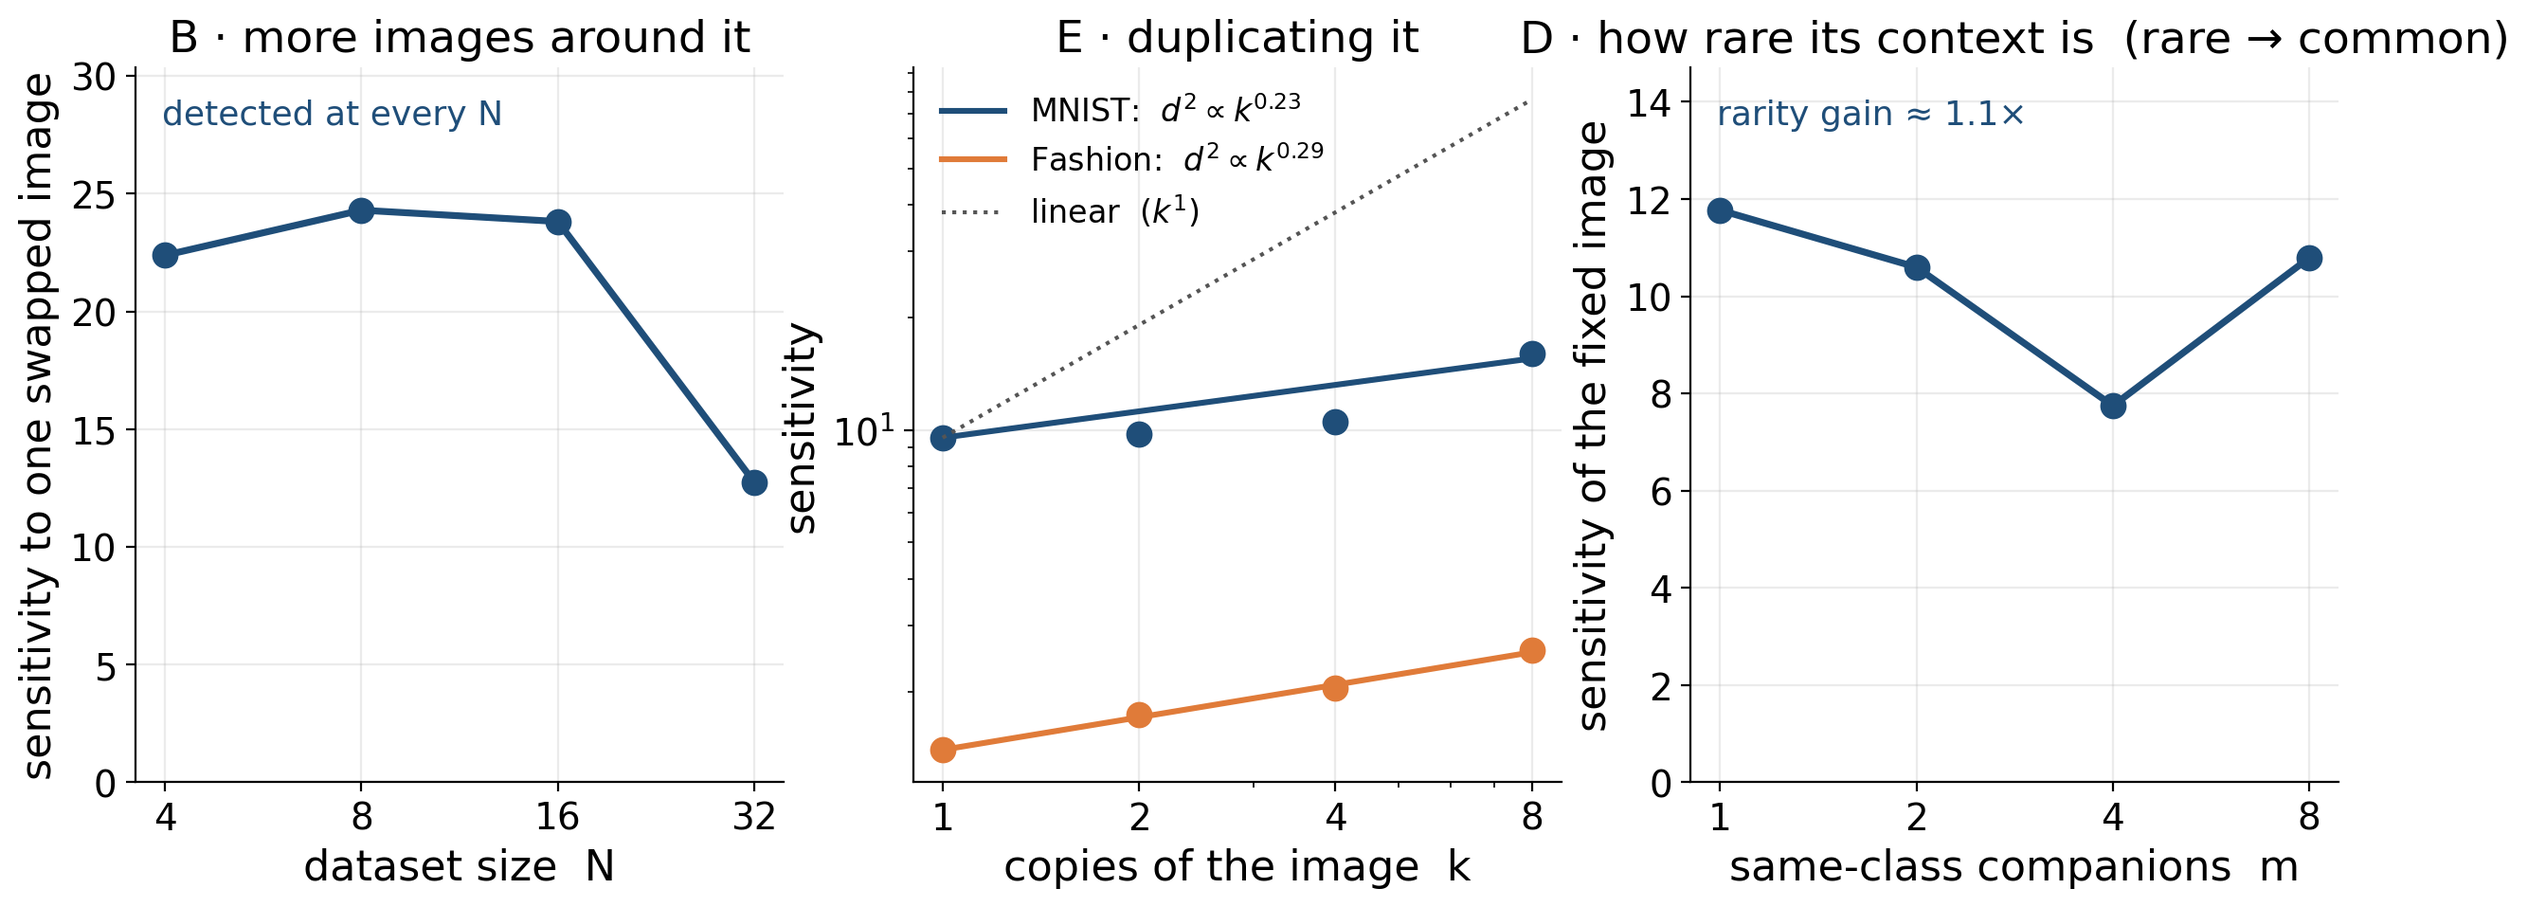
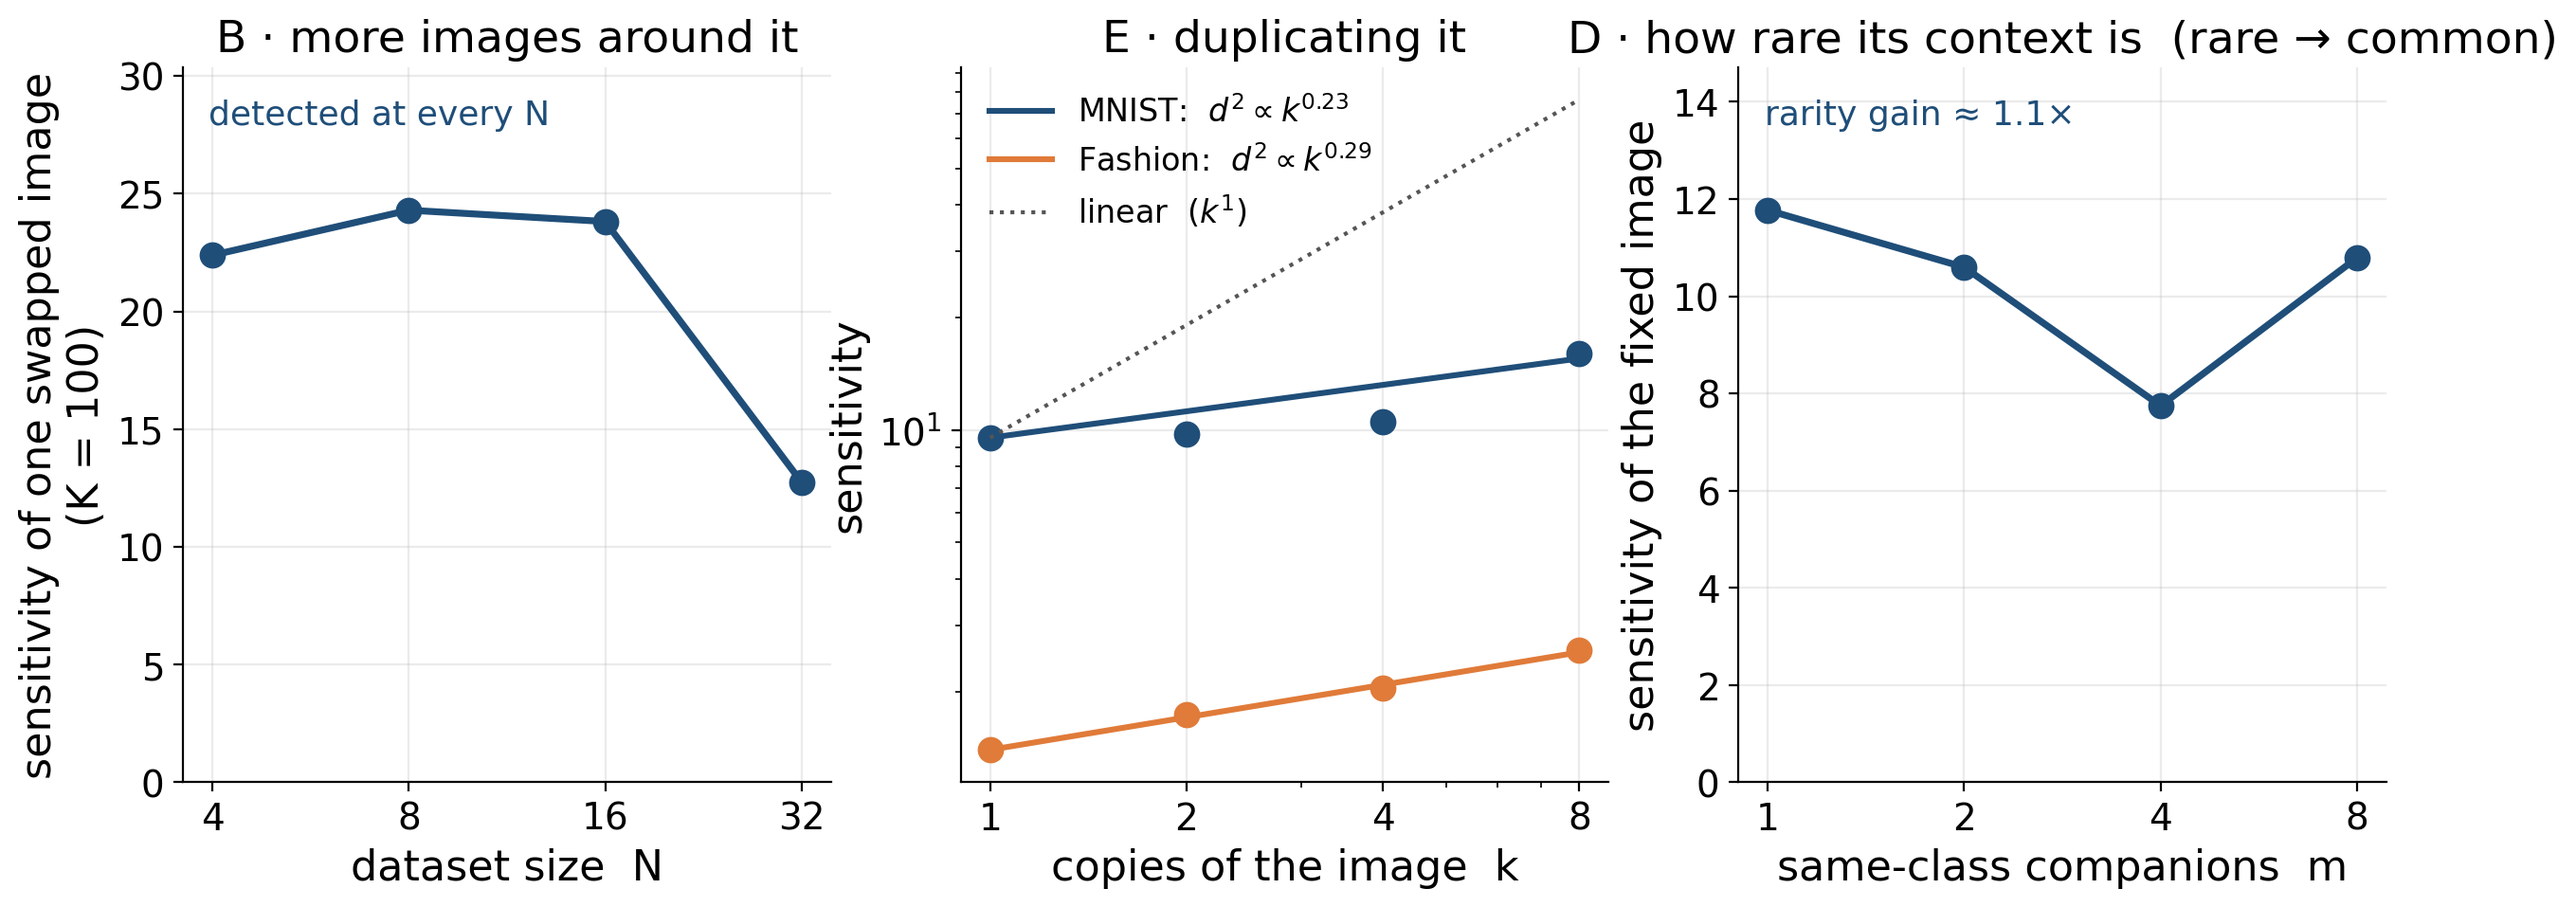
Deck 2026-08-31: reconcile with Mac v2 (S5/S15/S19/S20 wording), label arm-B panels K=100 with the fixed-K caveat, state S behind q_eff 156/160, honest N=4 DI lead (3 of 4; the 8 slot collapsed onto the 0), faces provenance reminder

diff --git a/scripts/deck/deck/slides_results.py b/scripts/deck/deck/slides_results.py
@@ -43,11 +43,11 @@ def slide_r1_knobs(prs):
                 C.MX + Inches(5.9), py + ph + Inches(0.25), Inches(6.3), size=C.SZ_SMALL)
     H.add_footer(s)
     H.add_text(s, "every leakage number here is a lower bound on the weakest attacker (prior-free, adapter-only, per-image)", C.MX, C.SL_H - Inches(0.70), C.CW, Inches(0.24), size=10, color=C.LGRAY, italic=True)
-    H.set_notes(s, """WHAT WE DID: three composition knobs around ONE private image, each read with the 3-way whitened secret-swap ruler at fixed K=50 (T=1000, rank 8, N=16 unless swept). B — dilution: same swap inside N=4/8/16/32. E — duplication: k=1,2,4,8 copies of the image at fixed prevalence, Sigma frozen across k. D — context rarity: the SAME fixed image with m=1,2,4,8 same-class companions.
+    H.set_notes(s, """WHAT WE DID: three composition knobs around ONE private image, each read with the 3-way whitened secret-swap ruler at fixed K (arm B panel = K=100 read; arms C/D/E K=50) (T=1000, rank 8, N=16 unless swept). B — dilution: same swap inside N=4/8/16/32. E — duplication: k=1,2,4,8 copies of the image at fixed prevalence, Sigma frozen across k. D — context rarity: the SAME fixed image with m=1,2,4,8 same-class companions.
 WHY THIS FUNCTION: d^2 is the whitened detectability of the swap (= 2 KL = Neyman-Pearson SNR^2 under equal-Sigma Gaussian). Reporting rule 1: detection p is primary; magnitudes are lower bounds at the stated K; comparisons only at fixed K.
 WHY REPRESENTATIVE: all p = 0.002 (every swap detectable at every N, every k, every m). Panel B: flat in N, the N=32 decline is UNEXPLAINED (open sub-question, plan section III.1). Panel E: beta = 0.234 (r8, R^2 = 0.76) / 0.241 (r32) — rank-INVARIANT exponent, but the absolute d^2 across ranks is dimension-confounded (r32 ~15x r8 at k=1; rule 3: never quote a bare cross-rank magnitude). beta(T) DECREASES 0.313 -> 0.256 -> 0.234 at T=50/200/1000: the system trends toward, but does not reach, the beta=0 max-margin duplication-invariant limit, i.e. it is NOT at the KKT fixed point — beta(T) is a convergence diagnostic. Wording rule: 'sub-linear beta', never 'duplication-invariance'. Fashion replicates (beta 0.288 r8 / 0.359 r32, R^2 0.99; job 246873). Panel D: rarity gain sens(m=1)/sens(m=8) = 1.21, 0.96, 1.16 -> mean 1.11, non-monotone, ~noise.
 GAL-ASK: G2 (more data / distributions, not best runs) — this is a battery, not a best run; the 'sharpens with N' headline was killed by the 3-way estimator (winner's-curse denominator artifact, retracted).
-CAVEATS: MNIST MLP (Fashion for E only); K=50; magnitudes are lower bounds; the N=32 decline is open.
+CAVEATS: MNIST MLP (Fashion for E only); STATE K: the arm-B bars (22/24/24/13) are the K=100 read (job 130198; the K=50 read of the same swap is ~8, K=200 is ~46 for N=4) -- real-data d^2 grows ~2.6x per doubling of K while the reseed-vs-reseed null stays ~0 at K=50/100/200, so the absolute is a fixed-K RELATIVE statistic (signal-direction resolution), NOT a converged point estimate; what is solid is p=0.002 at every N and the N-shape (flat, decline at N=32) identical at K=50 and K=100. Arms C/D/E are K=50. Magnitudes are lower bounds; the N=32 decline is open.
 PROVENANCE: arm B reconfirm job 130198 (K=50/100); arm E job 162114 (r8/r32), T-sweep 217123, Fashion 246873; arm D job 245964; null-diag 212413. STATUS.md 2026-08-27/28; notes/dataset_sensitivity_program_plan.md section III.""")
     return s
 
@@ -113,7 +113,7 @@ PROVENANCE: jobs 260171 (n=12), 272504 (n=24, results/margin_at_scale/summary.js
 def slide_r4_ladder(prs):
     s = H.new_slide(prs)
     H.add_title(s, "The adapter records the concept, not the instance")
-    H.add_lead(s, "near-duplicates are invisible to the adapter; a different digit is loud")
+    H.add_lead(s, "near-duplicates are invisible; far swaps are loud — one same-digit swap even beats the cross-digit anchor")
     px, py, pw, ph = H.fit_image(s, C.fig("ladder_strip.png"), C.MX, _Y0, C.CW, Inches(3.75))
     eq = render_math(r"s(d)=\frac{\mathrm{sens}(d)}{\mathrm{sens}(d_{\mathrm{cross}})}", "eq_r4_ladder")
     ey = py + ph + Inches(0.15)
@@ -135,7 +135,7 @@ PROVENANCE: job 268959; results/similarity_ladder/similarity_ladder_summary.json
 # --------------------------------------------------------------------------------------------------
 def slide_r5_hgate(prs):
     s = H.new_slide(prs)
-    H.add_title(s, "Detection tracks behavioural memorisation — so we may say 'leakage'")
+    H.add_title(s, "Detection tracks memorisation — 'leakage', provisionally")
     H.add_lead(s, "the instrument and a leave-one-out memorisation score rank the same images — spot-check n=12, full gate pending")
     px, py, pw, ph = H.fit_image(s, C.fig("h_gate.png"), C.MX, _Y0, Inches(7.0), Inches(4.9), align="left")
     rx = px + pw + Inches(0.35)

diff --git a/scripts/deck/deck/slides_answers.py b/scripts/deck/deck/slides_answers.py
@@ -273,7 +273,7 @@ STATUS.md lines 97-102; notes/crux_activation_analysis.md lines 296-304; thesis_
 # ----------------------------------------------------------------------------------------------
 def slide_anchor(prs):
     s = _story(prs, "Moving the anchor fixes linearity, not leakage",
-               "softplus: already linear at α=0;  relu: linearization error falls 25× while leakage stays flat",
+               "softplus: already linear at α=0;  relu: linearization error falls 25× and leakage does not follow it",
                "your ask: midpoint anchor")
     fig_w = Inches(8.0)
     H.fit_image(s, C.fig("anchor_two_curve.png"), C.MX, CONTENT_Y, fig_w, CONTENT_H)
@@ -382,7 +382,7 @@ PROVENANCE: notes/identifiability_rank_bound.tex lines 95-118; notes/linearizati
 # ----------------------------------------------------------------------------------------------
 def slide_direct_inversion(prs):
     s = _story(prs, "Direct inversion: works at N=4, superposes at N=10",
-               "known-recipe upper bound — the map inverts; joint inversion is the bottleneck  (SimuDy's primitive, reframed)",
+               "known-recipe upper bound: 3 of 4 recovered at N=4 (one collapses onto the 0); joint inversion is the bottleneck",
                "your ask: direct weight inversion")
     n4 = _crop(C.ASSET["di_N4"], "di_N4_crop.png", (0.27, 0.0, 1.0, 0.95))
     n10 = _crop(C.ASSET["di_N10"], "di_N10_crop.png", (0.277, 0.0, 1.0, 0.915))
@@ -412,7 +412,8 @@ def slide_direct_inversion(prs):
     H.add_text(s, "private", C.MX, py2 + Inches(0.5), lab_w, Inches(0.3), size=12, color=C.GRAY)
     H.add_text(s, "recovered", C.MX, py2 + ph2 - Inches(0.7), lab_w, Inches(0.3), size=12, color=C.GRAY)
     H.add_footer(s)
-    H.set_notes(s, """WHAT WE DID: DI-Phase 0 (experiments/direct_inversion.py). Treat fine-tuning as a deterministic differentiable map
+    H.set_notes(s, """N=4 GRID, READ HONESTLY: private digits [5, 5, 0, 8]; recovered slots correlate 0.68 / 0.59 with the two 5s, slot 3 is a weak 0 (corr 0.28), and slot 4 correlates 0.67 with the 0 and -0.16 with the 8 -- i.e. the 8 was NOT recovered, the fourth slot collapsed onto the 0 (duplicate mode). That is the first sign of the superposition that dominates at N=10; mean ssim 0.58 at T=10 (results/direct_inversion_N4_r8_gelu.pth). If asked 'the 8 became a 0?': yes -- say so.
+WHAT WE DID: DI-Phase 0 (experiments/direct_inversion.py). Treat fine-tuning as a deterministic differentiable map
 theta_T = F(theta_0, {x_i}) and minimise the endpoint loss ||theta_T - F(theta_0, x_hat)||^2 over the candidate images
 (Regime A, endpoint only), Adam on x_hat, autograd through an UNROLLED full-batch SGD F. MNIST MLP, LoRA r=8, GELU, T=10.
 WHY THIS FUNCTION: the endpoint loss is exactly Gal's formulation (briefing §3) - no linearization, no decoder, F as a
@@ -457,7 +458,8 @@ def slide_more_data(prs):
                 "the free c_i) that reproduce it.  A released adapter exposes only a low-rank image of ΔW — inverting "
                 "that is the open milestone.", C.MX, ey + Inches(1.2), gal_w, h=Inches(0.85))
     H.add_footer(s)
-    H.set_notes(s, """WHAT WE DID: reconstruction from the TRUE full weight change (the strong-attacker / known-recipe ceiling), N=2,
+    H.set_notes(s, """FACES PROVENANCE (state once): data/faces/face1-3.jpg, three portraits of ONE person (added 2026-04-28; the May cheat-sheet calls them 'real OOD portraits', N=3 same-person joint inversion); state whose photos they are and that they are used with consent before any circulation beyond this meeting.
+WHAT WE DID: reconstruction from the TRUE full weight change (the strong-attacker / known-recipe ceiling), N=2,
 GELU (softplus for Fashion), across MNIST / Fashion-MNIST / CIFAR-10 / Flowers32 (results/gb_e2e_*_N2_gelu.pth, key
 'TRUE dW (ceiling)'), plus the ViT-B/16 Phase-0 run: three faces recovered jointly from one captured fine-tuning gradient
 (figures/phase0/n3_three_faces.png; per-image SSIM 0.38 / 0.26 / 0.52, cropped off the slide).

diff --git a/scripts/deck/deck/slides_measure.py b/scripts/deck/deck/slides_measure.py
@@ -252,7 +252,7 @@ def slide_m3(prs):
 WHY THIS FUNCTION: Left panel: over 60 synthetic datasets, the population-mean drift of E[d^2] from K to 2K is +44% for the 2-way estimator vs +6.3% for the 3-way (gate <= 15%); self-test 4/4 PASS (orthogonal -> detect, aligned -> mask, null -> flat, K-convergence). Right panel (null-diag, job 212413): the 3-way statistic on NO-SIGNAL data (reseed-vs-reseed, K=200) reads -0.001 at N=4 and +0.003 at N=16 with p = 0.58 / 0.42 and q_eff = 0, i.e. zero reads zero at every K; a real one-image swap at the same recipe reads 22 / 24 / 24 / 13 at N = 4 / 8 / 16 / 32 with p = 0.002 (arm B reconfirm, job 130198, K=50).
 WHY REPRESENTATIVE: A third calibration on real data: the S1 similarity ladder's d=0 identity rung (swap the target for itself) reads sens = 0, p = 1.000 exactly (job 268959). Shrinkage rho for the whitening is chosen by CV against the null (the rho maximizing d-hat^2_obs - mean d-hat^2_null); small-eigenvalue floor mandatory.
 GAL-ASK: This is the rigor you asked for in May (G2, "not best runs"): every reported number now comes with a null, a p-value and a K-convergence check, and the retractions are listed openly (appendix A4).
-CAVEATS: The 3-way fix lowered the absolute scale but real-data d^2 still grows with K (arm B: 8 -> 22 as K 50 -> 100, denominator flat). Because the null stays at ~0 and flat, that growth is benign signal-direction RESOLUTION, so d^2 is a consistent LOWER BOUND that tightens with K: quote magnitudes only at a fixed K, compare only at fixed K and fixed p; the detection p-value is the headline. Single-draw K-flatness is a knife-edge, hence the gate is a population mean over datasets, not one run.
+CAVEATS: The right panel's bars are the K=100 read (job 130198). The 3-way fix lowered the absolute scale but real-data d^2 still grows with K (arm B: 8 -> 22 as K 50 -> 100, ~46 at K=200; denominator flat) while the null stays ~0 at K=50/100/200 (job 212413) -- so quote the bars as a fixed-K relative statistic + p-value, never as a converged absolute. Because the null stays at ~0 and flat, that growth is benign signal-direction RESOLUTION, so d^2 is a consistent LOWER BOUND that tightens with K: quote magnitudes only at a fixed K, compare only at fixed K and fixed p; the detection p-value is the headline. Single-draw K-flatness is a knife-edge, hence the gate is a population mean over datasets, not one run.
 PROVENANCE: notes/whitened_sensitivity_metric.md:150-176 (correction + 3-way update, 2026-08-27); experiments/dataset_sensitivity/whitened_metric.py (self-test); null-diag job 212413 -> results/arm_b_dilution/null_diag.json; arm B reconfirm job 130198 -> results/arm_b_dilution/arm_b_summary.json (k2k); STATUS.md:2478-2509; identity rung job 268959 (STATUS.md 2026-08-28). Figure: figures/deck_2026_08_31/estimator_honest.png.""")
     return s
 
@@ -265,7 +265,7 @@ _ROWS = [
     ("E — duplication", "do copies add linearly?",           "linear in the copy count",          "✗", "sub-linear, β ≈ 0.2"),
     ("C — class imbalance", "does rarity matter?",           "the rare class leaks more",         "⚠", "class-dependent; identity asymmetry is intrinsic"),
     ("D — context rarity", "does the surrounding context matter?", "a rare context leaks more", "✗", "≈ no effect"),
-    ("g₀ — who leaks", "is it predictable from the base model?", "base gradient predicts",  "✓", "strong, then saturates"),
+    ("g₀ — who leaks", "is it predictable from the base model?", "base gradient predicts",  "⚠", "strong at low g₀; n=24 indeterminate"),
     ("S1 — similarity", "is a near-duplicate swap visible?", "near the floor",                    "✓", "concept, not instance"),
     ("ViT LoRA",           "an MLP artifact?",                    "generalizes to a real ViT",         "✓", "single image detected"),
     ("H — gate",      "does detection track memorisation?",  "ρ > 0.4",                       "✓", "tracks it"),

diff --git a/scripts/deck/make_deck_figures.py b/scripts/deck/make_deck_figures.py
@@ -162,7 +162,7 @@ def fig_anchor():
         print(f"[anchor] {act}: ctrl_margin(α)={[round(v,3) for v in cm]}  lin_fs={[round(v,3) for v in lin]}")
         ax.plot(al, cm, "-", marker="s", color=c, lw=2.6, ms=8, label=f"{act}: leakage")
         ax2.plot(al, lin, "--", marker="o", color=c, lw=2.0, ms=6, alpha=0.8, label=f"{act}: linearization error")
-    ax.set_xlabel("anchor α   (0 = linearize at the public model, 1 = at the fine-tuned endpoint)")
+    ax.set_xlabel("anchor α   (0 = public model  →  1 = fine-tuned endpoint)")
     ax.set_ylabel("leakage  (control-margin, solid)")
     ax2.set_ylabel("linearization error  (dashed)")
     ax2.spines["right"].set_visible(True)
@@ -243,13 +243,13 @@ def fig_estimator():
     null = {r["N"]: r["null_sensitivity"] for r in nd}
     x = np.arange(len(Ns))
     a2.bar(x - 0.2, real, width=0.4, color=BLUE, label="one image swapped  (p = 0.002 at every N)")
-    a2.bar(x + 0.2, [null.get(n, np.nan) for n in Ns], width=0.4, color=GRAY, label="nothing swapped, seeds only  (≈ 0 — invisible at this scale)")
+    a2.bar(x + 0.2, [null.get(n, np.nan) for n in Ns], width=0.4, color=GRAY, label="nothing swapped, seeds only  (≈ 0 at K = 50 / 100 / 200 — invisible here)")
     for i, n in enumerate(Ns):
         if n in null:
             pass
     a2.set_xticks(x)
     a2.set_xticklabels([f"N = {n}" for n in Ns])
-    a2.set_ylabel("whitened sensitivity  d²  (debiased)")
+    a2.set_ylabel("whitened sensitivity  d²  (debiased, K = 100)")
     a2.axhline(0, color="k", lw=1)
     a2.set_ylim(0, max(real) * 1.45)
     a2.legend(frameon=False, loc="upper left", fontsize=12)
@@ -272,7 +272,7 @@ def fig_knobs():
     a1.set_xticks(Ns)
     a1.set_xticklabels([str(n) for n in Ns])
     a1.set_xlabel("dataset size  N")
-    a1.set_ylabel("sensitivity to one swapped image")
+    a1.set_ylabel("sensitivity of one swapped image\n(K = 100)")
     a1.set_ylim(0, max(r["whitened_sensitivity"] for r in b) * 1.25)
     a1.set_title("B · more images around it")
     a1.text(0.04, 0.92, "detected at every N", transform=a1.transAxes, fontsize=13, color=BLUE)

diff --git a/scripts/deck/deck/slides_appendix.py b/scripts/deck/deck/slides_appendix.py
@@ -227,7 +227,7 @@ def slide_a5_provenance(prs):
         ("E4 g₀ correlation", "+0.857 (n=12) / +0.777 (n=24, CI [0.53, 0.91]) / +0.83 full-FT (n=6)", "260171 / 272504 / 695782"),
         ("E5 valley width", "geomean 1.02, median 0.86, narrower 4/6 (n=6)", "695782"),
         ("E6 ΔW by composition", "ARI +1.00; nuisance ≈ 0; raw (B,A) by seed +0.55; cross-fit +0.989 CI [0.973, 1.005] G=30", "838868 (811847 fold-buggy)"),
-        ("E7 ceiling / wall", "SSIM ~0.99 / 0.57 @ N=4 → 0.27 @ N=10; bridge 0.951 cos; q_eff 156/160", "956994 + DI / bridge / ViT (STATUS)"),
+        ("E7 ceiling / wall", "SSIM ~0.99 / 0.57 @ N=4 → 0.27 @ N=10; bridge 0.951 cos; q_eff 156/160 (ε=10, S=1280 = S=640, r_J=160)", "956994 + DI / bridge / ViT (STATUS)"),
         ("H gate (memorisation vs sensitivity)", "ρ = +0.881, p = 1.5e-4, n=12; excl. m=1: +0.85; ρ(mem, g₀) = +0.80", "272309"),
         ("ViT-tiny rank-4 LoRA", "3 targets p = 0.002, sens 1.13 / 1.24 / 1.52 (N=16, K=50)", "256540 (MVP 247474)"),
         ("metric null-diag", "3-way estimator unbiased on no-signal data at every K", "212413"),

diff --git a/docs/presentation-remarks-log.md b/docs/presentation-remarks-log.md
@@ -33,3 +33,11 @@ Running log of every remark / request the user gives about slides (mandated by C
    slide at one height; S7 lead back to one line; native-text notation glitches fixed (mathtext axis labels, no bare θ_T,
    superscript exponents); S4 caption names gelu as the smooth outlier; appendix rank block enlarged.
    Not applied: recolouring the kinked series away from red (legends disambiguate; red = kinked is used in every figure).
+10. **Mac-side v2 reconciliation (2026-08-30):** the Mac session produced a v2 pptx + `deck_audit_2026-08-31.md`. Ported into the
+    canonical generator: S5 axis label + "leakage does not follow it"; S15 g₀ row ⚠ "n=24 indeterminate"; S19 lead admits the
+    s=1.39 same-digit swap; S20 title "'leakage', provisionally". Resolved from cluster data (told to the Mac): arm-B bars are
+    the K=100 read (K=50 ≈ 8, K=200 ≈ 46; null ≈ 0 at every K) → panels now labelled K=100 and notes call the absolute a
+    fixed-K relative statistic; R² is 0.76 (JSON), 0.85 is a stale STATUS line; q_eff 156/160 is S=1280 = S=640 (≥ 4·Nk),
+    r_J=160; faces = data/faces/face1–3.jpg, one person, consent line to be stated by the author; the N=4 DI grid's "8"
+    slot collapsed onto the 0 (corr 0.67 with the 0, −0.16 with the 8) → S7 lead says "3 of 4 recovered". NOT ported: the
+    Mac's strapline-only-on-S3/S16 choice (this generator keeps one policy: every leakage-number slide).
